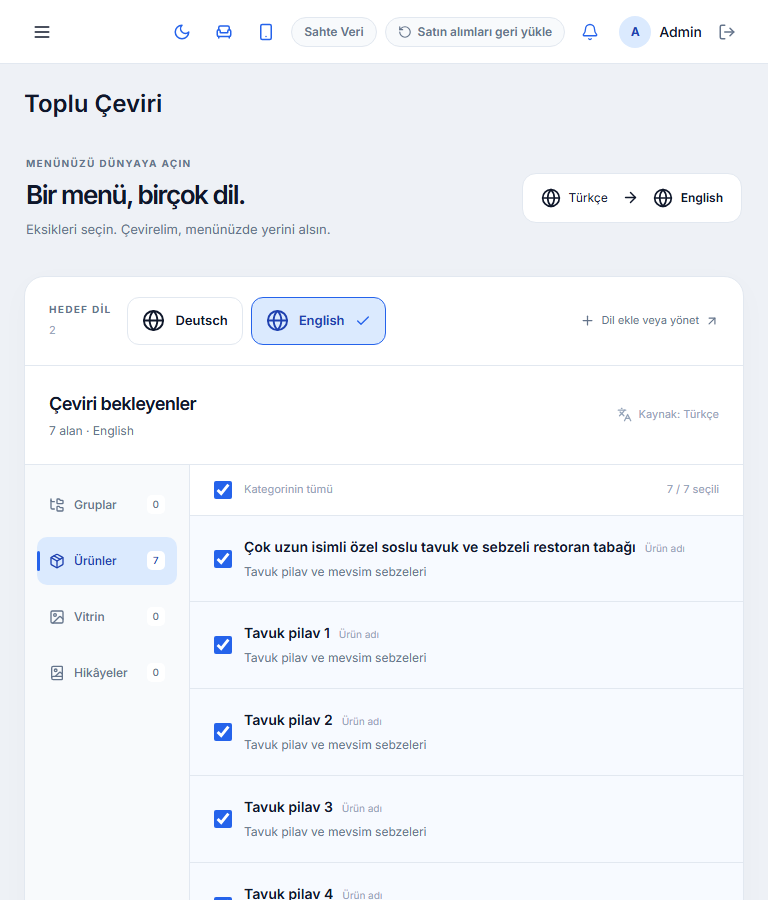
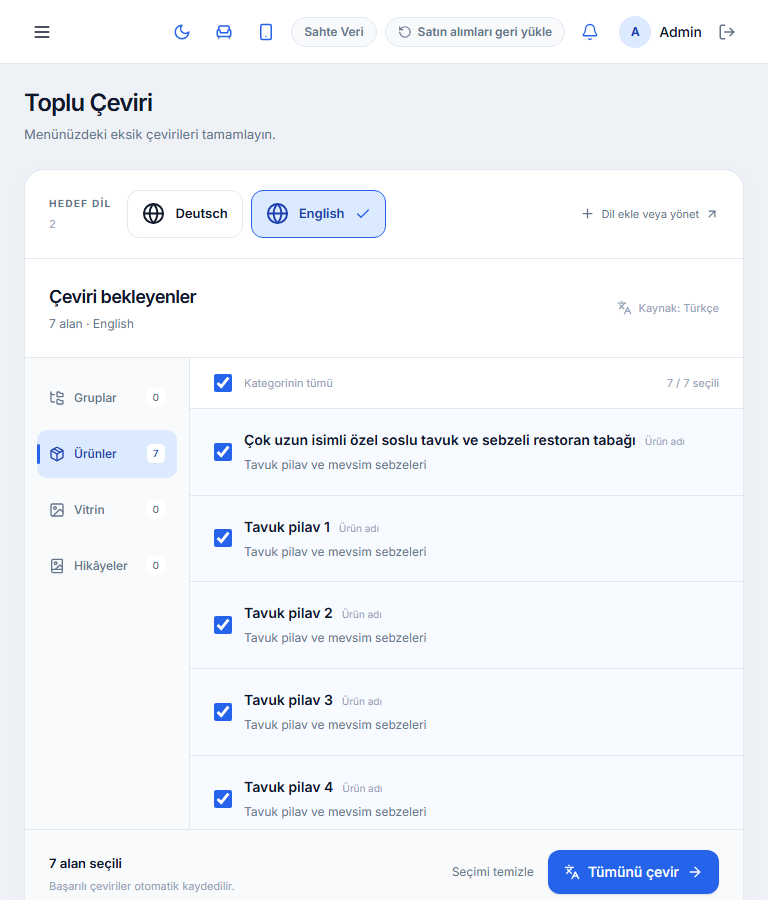
Panel başlıklarını standartlaştır ve Hesap servisini ekle

diff --git a/frontend/src/pages/admin/bulk-translate.css b/frontend/src/pages/admin/bulk-translate.css
@@ -19,7 +19,7 @@
   outline: 2px solid var(--admin-accent);
   outline-offset: 3px;
 }
-.translate-page input[type='checkbox'] {
+.translate-page input[type="checkbox"] {
   width: 18px;
   height: 18px;
   flex-shrink: 0;
@@ -33,44 +33,12 @@
   letter-spacing: 0.13em;
   color: var(--admin-text-muted);
 }
-.translate-intro {
-  display: flex;
-  align-items: center;
-  justify-content: space-between;
-  gap: 24px;
-  padding: 12px 2px;
-}
-.translate-intro h2,
 .translate-locked h2 {
   margin: 9px 0;
   font-size: clamp(26px, 3vw, 40px);
   font-weight: 600;
   letter-spacing: -0.055em;
   line-height: 1.15;
-}
-.translate-intro p:last-child {
-  color: var(--admin-text-muted);
-  font-size: 13px;
-  line-height: 1.6;
-}
-.translate-route {
-  display: flex;
-  align-items: center;
-  gap: 14px;
-  padding: 14px 18px;
-  background: var(--admin-card);
-  border: 1px solid var(--admin-card-border);
-  border-radius: 14px;
-  font-size: 12px;
-  flex-shrink: 0;
-}
-.translate-route span {
-  display: flex;
-  align-items: center;
-  gap: 8px;
-}
-.translate-route span:last-child {
-  font-weight: 600;
 }
 .translate-workspace {
   display: grid;
@@ -211,7 +179,7 @@
   background: var(--admin-accent-soft);
 }
 .translate-categories button.is-active:after {
-  content: '';
+  content: "";
   position: absolute;
   top: 14px;
   bottom: 14px;
@@ -570,15 +538,6 @@
 @media (max-width: 767px) {
   .translate-page {
     gap: 18px;
-  }
-  .translate-intro {
-    align-items: flex-start;
-    flex-direction: column;
-    gap: 16px;
-    padding: 0;
-  }
-  .translate-route {
-    display: none;
   }
   .translate-workspace {
     border-radius: 16px;

diff --git a/frontend/src/components/public/TableServiceButtons.tsx b/frontend/src/components/public/TableServiceButtons.tsx
@@ -7,7 +7,7 @@ import {
   CarFront,
   HandHelping,
   LoaderCircle,
-  Wind,
+  ReceiptText,
   X,
 } from "lucide-react";
 import { api, isCodeRequiredError } from "@/lib/api";
@@ -19,6 +19,7 @@ import { useTableSessionCode } from "@/components/public/TableSessionCodeGate";
 import { useSheetFocus, useSheetPresence } from "./sofra/SofraSheet";
 import SahneActivityArt from "./sahne/SahneActivityArt";
 import "./service-menu.css";
+import HookahIcon from './HookahIcon';
 
 // Per-service administration switches will be added separately.
 const SERVICES = [
@@ -31,8 +32,16 @@ const SERVICES = [
     detailEn: "A helping hand for your table.",
   },
   {
+    kind: "bill",
+    Icon: ReceiptText,
+    tr: "Hesap",
+    en: "Bill",
+    detail: "Hesabı masanıza getirelim.",
+    detailEn: "Let us bring the bill to your table.",
+  },
+  {
     kind: "hookah",
-    Icon: Wind,
+    Icon: HookahIcon,
     tr: "Nargileci",
     en: "Hookah attendant",
     detail: "Köz, hazırlık veya küçük bir rica.",
@@ -343,7 +352,7 @@ export default function TableServiceButtons({
                         <span>
                           {en ? "HOW CAN WE HELP?" : "NASIL YARDIMCI OLALIM?"}
                         </span>
-                        <span>03</span>
+                        <span>{String(SERVICES.length).padStart(2, '0')}</span>
                       </div>
                       <div className="service-concierge__list">
                         {SERVICES.map(

diff --git a/frontend/src/pages/admin/GroupsPage.tsx b/frontend/src/pages/admin/GroupsPage.tsx
@@ -36,7 +36,7 @@ import {
 } from '@dnd-kit/sortable';
 import { api, imageUrl } from '@/lib/api';
 import { getActiveLanguages, type AdminLanguage } from '@/lib/languages';
-import { Button, Spinner } from '@/components/ui';
+import { Button, PageHeading, Spinner } from '@/components/ui';
 import { AdminListPager } from '@/components/AdminListPager';
 import GroupModal, { type GroupFormState } from '@/components/GroupModal';
 import GroupProductsModal from '@/components/GroupProductsModal';
@@ -446,16 +446,7 @@ export default function GroupsPage() {
   return (
     <section className="ag-page" aria-label="Grup yönetimi">
       <header className="ag-head">
-        <div>
-          <p className="ag-eyebrow">MENÜ DÜZENİ</p>
-          <h1>
-            Gruplar<span>.</span>
-          </h1>
-          <p>
-            {groups.filter((g) => !g.isSubGroup).length} ana grup ·{' '}
-            {groups.filter((g) => g.isSubGroup).length} alt grup
-          </p>
-        </div>
+        <PageHeading title="Gruplar" subtitle={`${groups.filter((g) => !g.isSubGroup).length} ana grup · ${groups.filter((g) => g.isSubGroup).length} alt grup`} />
         <Button onClick={() => openForm(null)} disabled={busy}>
           <Plus size={18} />
           Grup ekle

diff --git a/frontend/src/components/ui.tsx b/frontend/src/components/ui.tsx
@@ -1,4 +1,5 @@
 import { useId, useState, type ReactNode } from 'react';
+import './admin/page-heading.css';
 
 interface Props {
   children: ReactNode;
@@ -208,16 +209,33 @@ export function Badge({ active }: { active: boolean }) {
   );
 }
 
+export function PageHeading({
+  title,
+  subtitle,
+}: {
+  title: string;
+  subtitle?: ReactNode;
+}) {
+  return (
+    <div className="admin-page-heading">
+      <h1 className="admin-page-title">{title}</h1>
+      {subtitle && <p className="admin-page-subtitle">{subtitle}</p>}
+    </div>
+  );
+}
+
 export function PageHeader({
   title,
+  subtitle,
   actions,
 }: {
   title: string;
+  subtitle?: ReactNode;
   actions?: ReactNode;
 }) {
   return (
     <div className="mb-6 flex flex-col gap-4 sm:flex-row sm:items-center sm:justify-between">
-      <h1 className="text-2xl font-semibold text-[var(--admin-text)]">{title}</h1>
+      <PageHeading title={title} subtitle={subtitle} />
       {actions && <div className="flex flex-wrap items-center gap-2">{actions}</div>}
     </div>
   );

diff --git a/frontend/src/pages/admin/ProductsPage.tsx b/frontend/src/pages/admin/ProductsPage.tsx
@@ -26,7 +26,7 @@ import {
 import { api } from '@/lib/api';
 import { adminPath } from '@/lib/adminPath';
 import { getActiveLanguages, type AdminLanguage } from '@/lib/languages';
-import { Button, Spinner } from '@/components/ui';
+import { Button, PageHeading, Spinner } from '@/components/ui';
 import { AdminListPager } from '@/components/AdminListPager';
 import ProductModal, { type ProductFormState } from '@/components/ProductModal';
 import ProductStockModal from '@/components/ProductStockModal';
@@ -842,13 +842,7 @@ export default function ProductsPage() {
         className={modalOpen ? 'pe-modal-toast' : ''}
       />
       <header className="ap-head">
-        <div>
-          <p className="ag-eyebrow">MENÜ ATÖLYESİ</p>
-          <h1>
-            Ürünler<span>.</span>
-          </h1>
-          <p>Lezzetlerinize yer açın.</p>
-        </div>
+        <PageHeading title="Ürünler" subtitle={`${total} ürün`} />
         <div className="ap-head__actions">
           <button
             className="ap-tools"

diff --git a/frontend/src/components/public/ServiceCallNotice.tsx b/frontend/src/components/public/ServiceCallNotice.tsx
@@ -7,13 +7,14 @@ import {
   Gamepad2,
   HandHelping,
   X,
-  Wind,
+  ReceiptText,
 } from "lucide-react";
 import {
   SERVICE_CALL_CONFIRMED_EVENT,
   type ServiceCallReceipt,
 } from "@/lib/serviceCallFeedback";
 import "./service-call-notice.css";
+import HookahIcon from './HookahIcon';
 
 const VISIBLE_MS = 6500;
 const EXIT_MS = 320;
@@ -90,8 +91,8 @@ export default function ServiceCallNotice({
       : notice.kind === "valet"
         ? CarFront
         : notice.kind === "hookah"
-          ? Wind
-          : Bell;
+          ? HookahIcon
+          : notice.kind === 'bill' ? ReceiptText : Bell;
   const title = notice.duplicate
     ? en
       ? "Your request is already sent"
@@ -108,6 +109,8 @@ export default function ServiceCallNotice({
           ? en
             ? "Hookah attendant called"
             : "Nargileci çağrıldı"
+          : notice.kind === 'bill'
+            ? en ? 'Bill requested' : 'Hesap istendi'
           : en
             ? "Request sent"
             : "Çağrın iletildi";

diff --git a/frontend/src/pages/admin/BulkTranslatePage.tsx b/frontend/src/pages/admin/BulkTranslatePage.tsx
@@ -325,20 +325,7 @@ export default function BulkTranslatePage() {
 
   return (
     <div className="translate-page">
-      <PageHeader title="Toplu Çeviri" />
-
-      <header className="translate-intro">
-        <div>
-          <p className="translate-eyebrow">MENÜNÜZÜ DÜNYAYA AÇIN</p>
-          <h2>Bir menü, birçok dil.</h2>
-          <p>Eksikleri seçin. Çevirelim, menünüzde yerini alsın.</p>
-        </div>
-        <div className="translate-route" aria-label={`Türkçe → ${targetMeta?.name || 'Hedef dil'}`}>
-          <span><LanguageFlag code="tr" size={20} /> Türkçe</span>
-          <ArrowRight size={17} aria-hidden />
-          <span>{targetMeta ? <LanguageFlag code={targetMeta.code} size={20} /> : <Globe2 size={20} />}{targetMeta?.name || 'Hedef dil'}</span>
-        </div>
-      </header>
+      <PageHeader title="Toplu Çeviri" subtitle="Menünüzdeki eksik çevirileri tamamlayın." />
 
       <AdminToast notice={notice} onClose={() => setNotice(null)} />
 

diff --git a/frontend/src/pages/admin/BarcodePage.tsx b/frontend/src/pages/admin/BarcodePage.tsx
@@ -3,7 +3,7 @@ import { useSearchParams } from 'react-router-dom';
 import { LayoutGrid, Lock, Megaphone, Printer, QrCode } from 'lucide-react';
 import { useAuth } from '@/contexts/AuthContext';
 import { useAddons } from '@/hooks/useAddons';
-import { Spinner } from '@/components/ui';
+import { PageHeading, Spinner } from '@/components/ui';
 import { api, imageUrl } from '@/lib/api';
 import AdminToast, {
   type AdminToastNotice,
@@ -874,10 +874,7 @@ export default function BarcodePage() {
         className="bq-toast"
       />
       <header className="bq-head">
-        <div>
-          <h1>Barkod Yazdır</h1>
-          <p>Menüne götüren QR kartını tasarla, yazdır.</p>
-        </div>
+        <PageHeading title="Barkod Yazdır" subtitle="Menüye götüren QR kartını tasarla, yazdır." />
         {!narrow && (
           <button
             type="button"

diff --git a/frontend/src/pages/admin/ShowcasePage.tsx b/frontend/src/pages/admin/ShowcasePage.tsx
@@ -15,7 +15,7 @@ import {
 import { api } from '@/lib/api';
 import { getActiveLanguages } from '@/lib/languages';
 import { useDemoData } from '@/contexts/DemoDataContext';
-import { Button, Spinner } from '@/components/ui';
+import { Button, PageHeading, Spinner } from '@/components/ui';
 import AdminOverlay from '@/components/admin/AdminOverlay';
 import AdminToast, {
   type AdminToastNotice,
@@ -323,7 +323,7 @@ export default function ShowcasePage() {
         className={editor || deleteTarget ? 'sc-modal-toast' : ''}
       />
       <header className="sc-head">
-        <h1>Vitrin Görselleri</h1>
+        <PageHeading title="Vitrin Görselleri" />
         <Button
           onClick={() => open()}
           disabled={busy || loading || Boolean(loadError)}

diff --git a/frontend/src/components/public/HookahIcon.tsx b/frontend/src/components/public/HookahIcon.tsx
@@ -1,0 +1,26 @@
+import type { SVGProps } from "react";
+
+/** Nargile gövdesi, lülesi ve hortumu; mevcut çizgi ikonlarıyla aynı ölçekte. */
+export default function HookahIcon({
+  size = 24,
+  strokeWidth = 1.5,
+  ...props
+}: SVGProps<SVGSVGElement> & { size?: number }) {
+  return (
+    <svg
+      width={size}
+      height={size}
+      viewBox="0 0 24 24"
+      fill="none"
+      stroke="currentColor"
+      strokeWidth={strokeWidth}
+      strokeLinecap="round"
+      strokeLinejoin="round"
+      aria-hidden="true"
+      {...props}
+    >
+      <path d="M8 3h6l-1 3H9L8 3Zm3 3v8M7 9h8M9 14c0 3-3 3-3 5 0 2 10 2 10 0 0-2-3-2-3-5H9Z" />
+      <path d="M14 12c5 0 2 7 5 7 2 0 2-3 2-5V9m-1-2h2v2h-2zM7 22h8" />
+    </svg>
+  );
+}

diff --git a/backend/src/lib/table-service-request.ts b/backend/src/lib/table-service-request.ts
@@ -1,4 +1,4 @@
-export type ServiceKind = 'waiter' | 'hookah' | 'valet';
+export type ServiceKind = 'waiter' | 'bill' | 'hookah' | 'valet';
 
 /** Keep structured service inputs separate from the existing food-order flow. */
 export function parseServiceRequest(
@@ -7,7 +7,7 @@ export function parseServiceRequest(
   note: unknown,
   order: unknown,
 ) {
-  if (type !== 'waiter' && type !== 'hookah' && type !== 'valet') {
+  if (type !== 'waiter' && type !== 'bill' && type !== 'hookah' && type !== 'valet') {
     throw new Error('Geçersiz istek türü');
   }
   if (type !== 'waiter' && order != null) {

diff --git a/frontend/src/components/admin/page-heading.css b/frontend/src/components/admin/page-heading.css
@@ -1,0 +1,21 @@
+.admin-page-heading {
+  min-width: 0;
+}
+.admin-page-heading > .admin-page-title {
+  margin: 0;
+  color: var(--admin-text);
+  font-size: 24px;
+  font-weight: 600;
+  line-height: 1.25;
+  letter-spacing: -0.035em;
+  overflow-wrap: anywhere;
+}
+.admin-page-heading > .admin-page-subtitle {
+  display: block;
+  margin: 6px 0 0;
+  color: var(--admin-text-muted);
+  font-size: 13px;
+  font-weight: 400;
+  line-height: 1.6;
+  letter-spacing: normal;
+}
